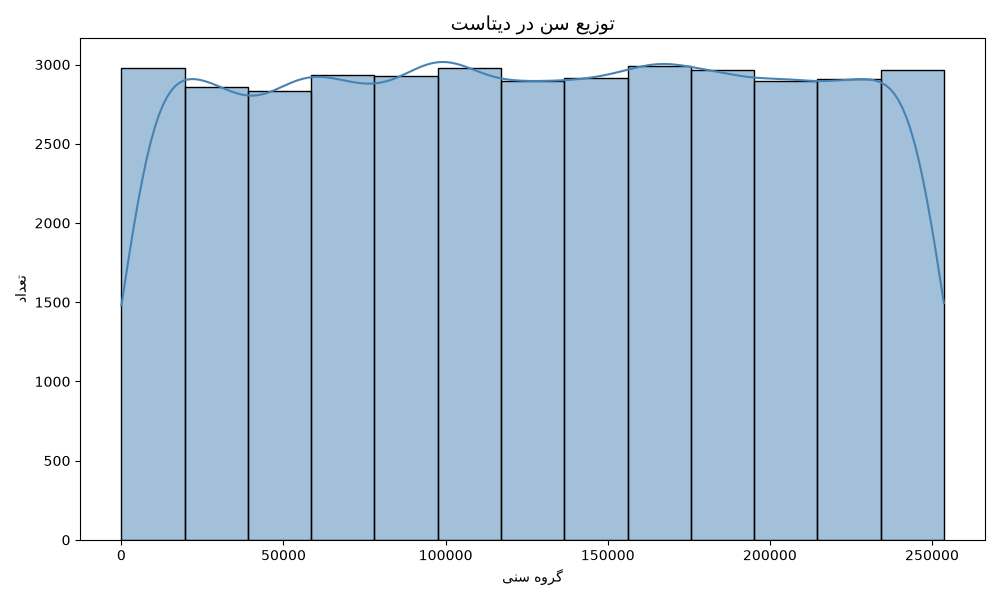
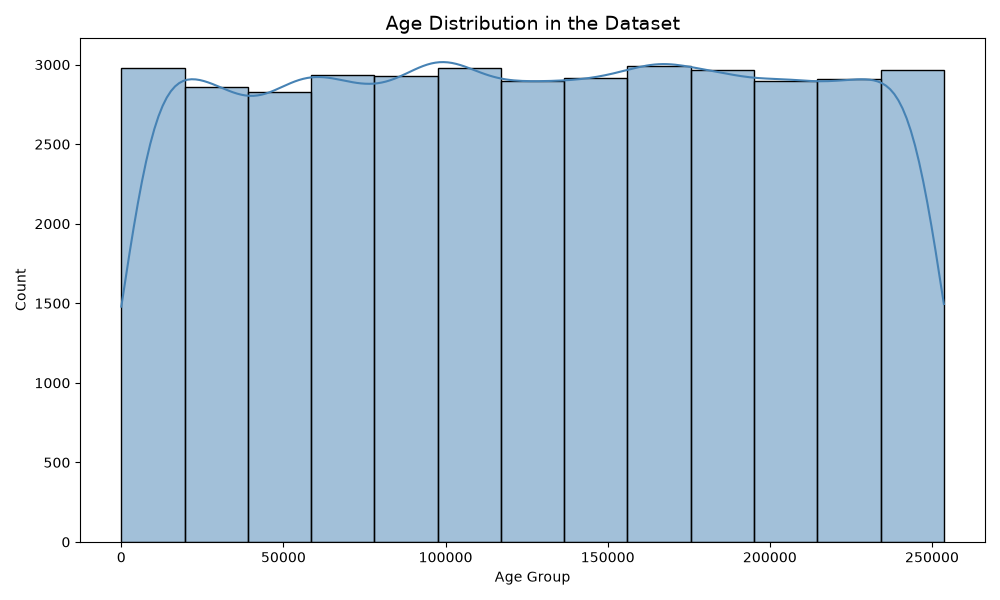
Update figures with English labels

diff --git a/EXPLORE.PY b/EXPLORE.PY
@@ -2,10 +2,10 @@ import pandas as pd
 import matplotlib.pyplot as plt
 import seaborn as sns
 
-# خوندن دیتاست
+# Load dataset
 df = pd.read_parquet("test.parquet")
 
-# اسم ستونهای واقعی
+# Real column names (based on CDC dataset)
 column_names = [
     "Age", "BMI", "HighBP", "HighChol", "CholCheck", "Smoker",
     "Stroke", "HeartDiseaseorAttack", "PhysActivity", "Fruits",
@@ -16,47 +16,47 @@ column_names = [
 
 if len(df.columns) == len(column_names):
     df.columns = column_names
-    print("✅ اسم ستونها عوض شد!")
+    print("✅ Column names updated!")
 else:
-    print(f"⚠ تعداد ستونها: {len(df.columns)}")
+    print(f"⚠ Number of columns: {len(df.columns)}")
 
-# === نمودار ۱: توزیع سن ===
+# === Figure 1: Age Distribution ===
 plt.figure(figsize=(10, 6))
 sns.histplot(df["Age"], bins=13, kde=True, color="steelblue")
-plt.title("توزیع سن در دیتاست", fontsize=14)
-plt.xlabel("گروه سنی")
-plt.ylabel("تعداد")
+plt.title("Age Distribution in the Dataset", fontsize=14)
+plt.xlabel("Age Group")
+plt.ylabel("Count")
 plt.tight_layout()
 plt.savefig("age_distribution.png")
 plt.show()
 
-# === نمودار ۲: توزیع دیابت ===
+# === Figure 2: Diabetes Distribution ===
 plt.figure(figsize=(8, 6))
 df["Diabetes_012"].value_counts().plot(kind="bar", color=["green", "orange", "red"])
-plt.title("توزیع دیابت (0=سالم، 1=پیشدیابت، 2=دیابت)", fontsize=14)
-plt.xlabel("وضعیت دیابت")
-plt.ylabel("تعداد")
+plt.title("Diabetes Distribution (0=Healthy, 1=Pre-diabetes, 2=Diabetes)", fontsize=14)
+plt.xlabel("Diabetes Status")
+plt.ylabel("Count")
 plt.tight_layout()
 plt.savefig("diabetes_distribution.png")
 plt.show()
 
-# === نمودار ۳: رابطه BMI و دیابت ===
+# === Figure 3: BMI vs Diabetes ===
 plt.figure(figsize=(10, 6))
 sns.boxplot(x="Diabetes_012", y="BMI", data=df, palette="Set2")
-plt.title("رابطه BMI و دیابت", fontsize=14)
-plt.xlabel("وضعیت دیابت")
+plt.title("Relationship between BMI and Diabetes", fontsize=14)
+plt.xlabel("Diabetes Status")
 plt.ylabel("BMI")
 plt.tight_layout()
 plt.savefig("bmi_diabetes.png")
 plt.show()
 
-# === نمودار ۴: ماتریس همبستگی ===
+# === Figure 4: Correlation Matrix ===
 plt.figure(figsize=(14, 10))
 corr = df.corr()
 sns.heatmap(corr, annot=False, cmap="coolwarm", center=0)
-plt.title("ماتریس همبستگی متغیرها", fontsize=14)
+plt.title("Correlation Matrix of Variables", fontsize=14)
 plt.tight_layout()
 plt.savefig("correlation_matrix.png")
 plt.show()
 
-print("\n✅ همه نمودارها ساخته و ذخیره شدن!")
+print("\n✅ All figures created and saved!")
